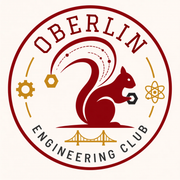
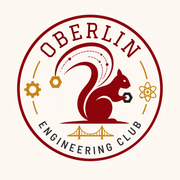
Make the badge a real circle and stop silently swallowing mail errors
- oec-badge.png has opaque cream corners, so it rendered as a square tile wherever
  no border-radius was applied (including the browser tab). Added a circle-masked
  variant and pointed the badge logo and app icons at it.
- Log the underlying failure in the staff password-reset route. The client response
  stays generic, but the real cause was previously discarded, which made a mail
  outage impossible to diagnose.
- Trim RESEND_* values: a trailing newline in the API key makes the Authorization
  header malformed and Resend answers 400, which reads like a broken integration.

Changed region(s): [[0.0278, 0.0278, 0.9722, 0.9722], [0.4722, 0.4444, 0.5, 0.4722]]

diff --git a/lib/email/client.ts b/lib/email/client.ts
@@ -1,4 +1,7 @@
 import 'server-only'
 import type { TransactionalEmailMessage } from './templates'
 
-export async function sendTransactionalEmail(input:{to:string;message:TransactionalEmailMessage;required?:boolean}){const key=process.env.RESEND_API_KEY,from=process.env.RESEND_FROM_EMAIL;const required=input.required!==false;if(!key||!from){if(required)throw new Error('EMAIL_CONFIG_MISSING');return false}const response=await fetch('https://api.resend.com/emails',{method:'POST',headers:{authorization:`Bearer ${key}`,'content-type':'application/json'},body:JSON.stringify({from,to:[input.to.trim().toLowerCase()],subject:input.message.subject,text:input.message.text})});if(!response.ok){if(required)throw new Error(`EMAIL_SEND_FAILED:${response.status}`);return false}return true}
+export async function sendTransactionalEmail(input:{to:string;message:TransactionalEmailMessage;required?:boolean}){
+// Trimmed: a trailing newline or stray space in the configured sender makes Resend
+// reject the whole request with a 400, which is indistinguishable from a real outage.
+const key=process.env.RESEND_API_KEY?.trim(),from=process.env.RESEND_FROM_EMAIL?.trim();const required=input.required!==false;if(!key||!from){if(required)throw new Error('EMAIL_CONFIG_MISSING');return false}const response=await fetch('https://api.resend.com/emails',{method:'POST',headers:{authorization:`Bearer ${key}`,'content-type':'application/json'},body:JSON.stringify({from,to:[input.to.trim().toLowerCase()],subject:input.message.subject,text:input.message.text})});if(!response.ok){if(required)throw new Error(`EMAIL_SEND_FAILED:${response.status}`);return false}return true}

diff --git a/components/brand/BrandLogo.tsx b/components/brand/BrandLogo.tsx
@@ -3,7 +3,9 @@ import clsx from 'clsx'
 
 export function BrandLogo({ variant = 'horizontal', className, src }: { variant?: 'horizontal' | 'badge'; className?: string; src?: string | null }) {
   const badge = variant === 'badge'
-  const fallback=badge?'/brand/oec-badge.png':'/brand/oec-horizontal.png'
+  // Circle-masked badge: the original oec-badge.png has opaque cream corners, so it
+  // rendered as a square tile anywhere a border-radius was not already applied.
+  const fallback=badge?'/brand/oec-badge-circle.png':'/brand/oec-horizontal.png'
   const width=badge?96:360
   const height=badge?96:153
   if(src)return <img className={clsx('brand-logo',className)} src={src} alt="Oberlin Engineering Club" width={width} height={height}/>

diff --git a/app/api/auth/staff/password-reset/route.ts b/app/api/auth/staff/password-reset/route.ts
@@ -8,7 +8,11 @@ export async function POST(request: Request) {
     return NextResponse.json({ ok: true })
   } catch (error) {
     const message = error instanceof Error ? error.message : 'PASSWORD_RESET_FAILED'
+    // ACTIVE_STAFF_REQUIRED answers ok to avoid revealing which emails are officers.
     if (message === 'ACTIVE_STAFF_REQUIRED') return NextResponse.json({ ok: true })
+    // Log server-side only: without this the real cause (mail config, Resend rejection)
+    // never surfaces anywhere, which makes delivery failures impossible to diagnose.
+    console.error('STAFF_PASSWORD_RESET_FAILED', message)
     return NextResponse.json({ error: 'PASSWORD_RESET_FAILED' }, { status: 500 })
   }
 }
